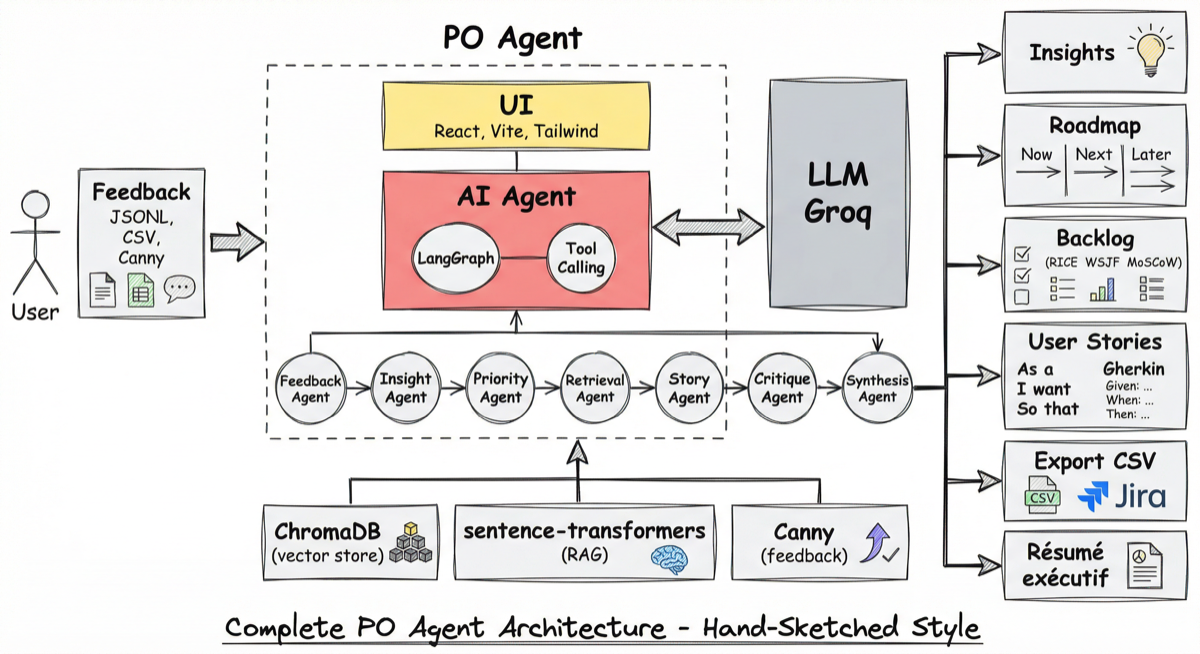
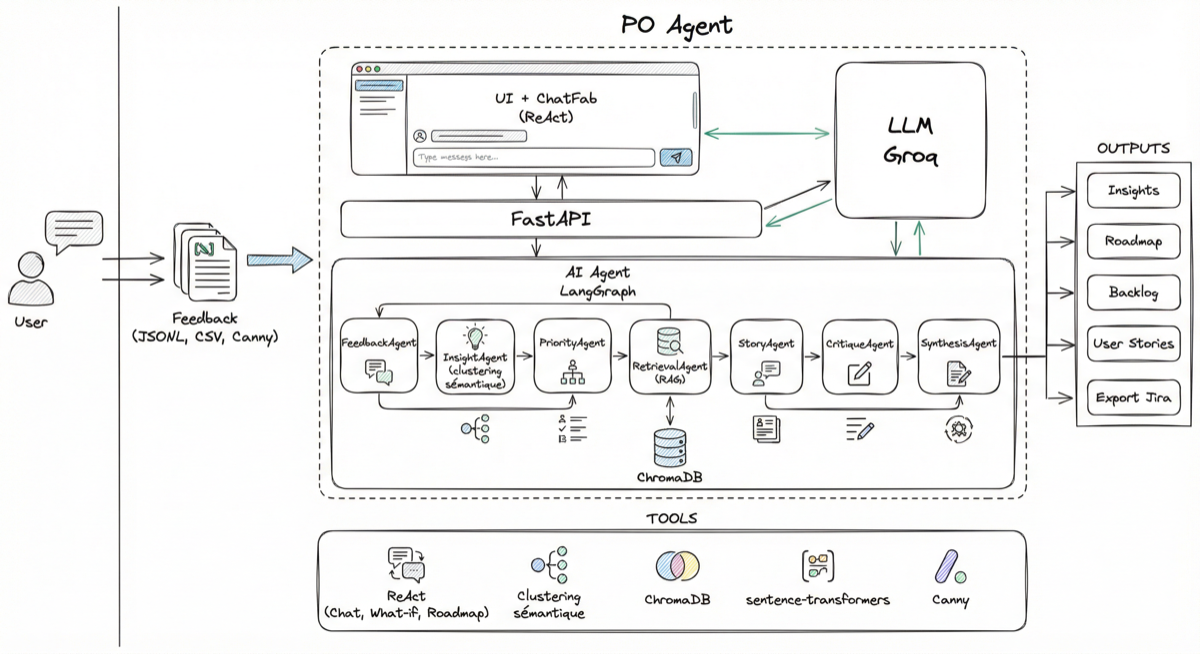
docs: ReAct, clustering sémantique, ChatFab dans images et docs
Made-with: Cursor

Changed region(s): [[0.0, 0.0, 1.0, 1.0], [0.5242, 0.0306, 0.6167, 0.0612]]

diff --git a/docs/architecture-diagram.html b/docs/architecture-diagram.html
@@ -42,7 +42,7 @@
       </div>
       <span class="arrow">→</span>
       <div class="box ui">
-        <span class="label">UI</span>
+        <span class="label">UI + ChatFab</span>
         <div class="logos">
           <img src="https://cdn.simpleicons.org/react/61DAFB" alt="React" title="React">
           <img src="https://cdn.simpleicons.org/vite/646CFF" alt="Vite" title="Vite">
@@ -63,7 +63,7 @@
         <div class="logos">
           <img src="https://cdn.simpleicons.org/langchain/F15D2F" alt="LangGraph" title="LangGraph">
         </div>
-        <span class="sub">Pipeline agentique</span>
+        <span class="sub">Pipeline + ReAct (Chat)</span>
       </div>
       <span class="arrow">→</span>
       <div class="box llm">
@@ -74,10 +74,18 @@
       </div>
     </div>
 
-    <div class="pipeline-flow">/ingest · /run · /chat · /export — Feedback → Insights → RICE/MoSCoW → User Stories</div>
+    <div class="pipeline-flow">/ingest · /run · /chat (ReAct) · /export — Feedback → Insights (clustering sémantique) → RICE/MoSCoW → User Stories</div>
 
     <div class="tool-label">Outils &amp; services</div>
     <div class="tools-row">
+      <div class="box">
+        <span class="label">ReAct</span>
+        <span class="sub">Chat · What-if · Roadmap</span>
+      </div>
+      <div class="box">
+        <span class="label">Clustering sémantique</span>
+        <span class="sub">InsightAgent</span>
+      </div>
       <div class="box">
         <span class="label">RAG</span>
         <span class="sub">sentence-transformers</span>
@@ -87,8 +95,8 @@
         <span class="sub">Vector store</span>
       </div>
       <div class="box">
-        <span class="label">Pydantic</span>
-        <span class="sub">Validation</span>
+        <span class="label">Canny</span>
+        <span class="sub">Feedback import</span>
       </div>
     </div>
   </div>

diff --git a/docs/agentic.md b/docs/agentic.md
@@ -26,6 +26,13 @@ Le PO Agent repose sur un **pipeline LangGraph** orchestrant 7 agents spécialis
 
 ---
 
+## ReAct (Chat)
+
+Le **chat** implémente un pattern ReAct (Reasoning + Acting) :
+- **Détection d'intent** sur le message utilisateur
+- **Suggestions d'actions** : What-if, Roadmap, recherche, navigation
+- Déclenchement des outils adaptés selon le contexte
+
 ## Tool Calling
 
 Le pipeline s'appuie sur plusieurs **outils** :
@@ -33,8 +40,9 @@ Le pipeline s'appuie sur plusieurs **outils** :
 | Outil | Rôle | Clé API |
 |-------|------|---------|
 | **Groq** | LLM pour Feedback, Priority, Story, Critique, Synthesis | `GROQ_API_KEY` |
+| **Clustering sémantique** | InsightAgent — regroupement demandes similaires (embeddings) | `OPENAI_API_KEY` (opt.) |
 | **ChromaDB** | Vector store pour RAG cross-sessions | — |
-| **sentence-transformers** | Embeddings (all-MiniLM-L6-v2) | — |
+| **sentence-transformers** | Embeddings (all-MiniLM-L6-v2) — RAG + clustering | — |
 | **Canny** | Import feedback existant (optionnel) | `CANNY_API_KEY` |
 
 ---

diff --git a/docs/architecture.md b/docs/architecture.md
@@ -10,7 +10,7 @@ Assistant IA qui décharge le PO sur trois piliers : **analyse de feedback**, **
 
 ![Architecture PO Agent — complet](assets/architecture-complet.png)
 
-*Input → 7 agents → Outputs (Insights, Roadmap, Backlog, User Stories, Export Jira)* · [Détail agentique](agentic.md) · [Schéma interactif](architecture-diagram.html)
+*Input → 7 agents (dont InsightAgent clustering sémantique) → Outputs · ReAct (Chat) · [Détail agentique](agentic.md) · [Schéma interactif](architecture-diagram.html)*
 
 ---
 

diff --git a/docs/tech-stack.md b/docs/tech-stack.md
@@ -19,7 +19,7 @@
 </p>
 
 <p align="center">
-  <em>Outils :</em> RAG (sentence-transformers) · ChromaDB · Pydantic
+  <em>Outils :</em> ReAct (Chat) · Clustering sémantique · RAG · ChromaDB · Canny · Pydantic
 </p>
 
 > **Schéma interactif** : [architecture-diagram.html](architecture-diagram.html) — ouvrir dans un navigateur.
